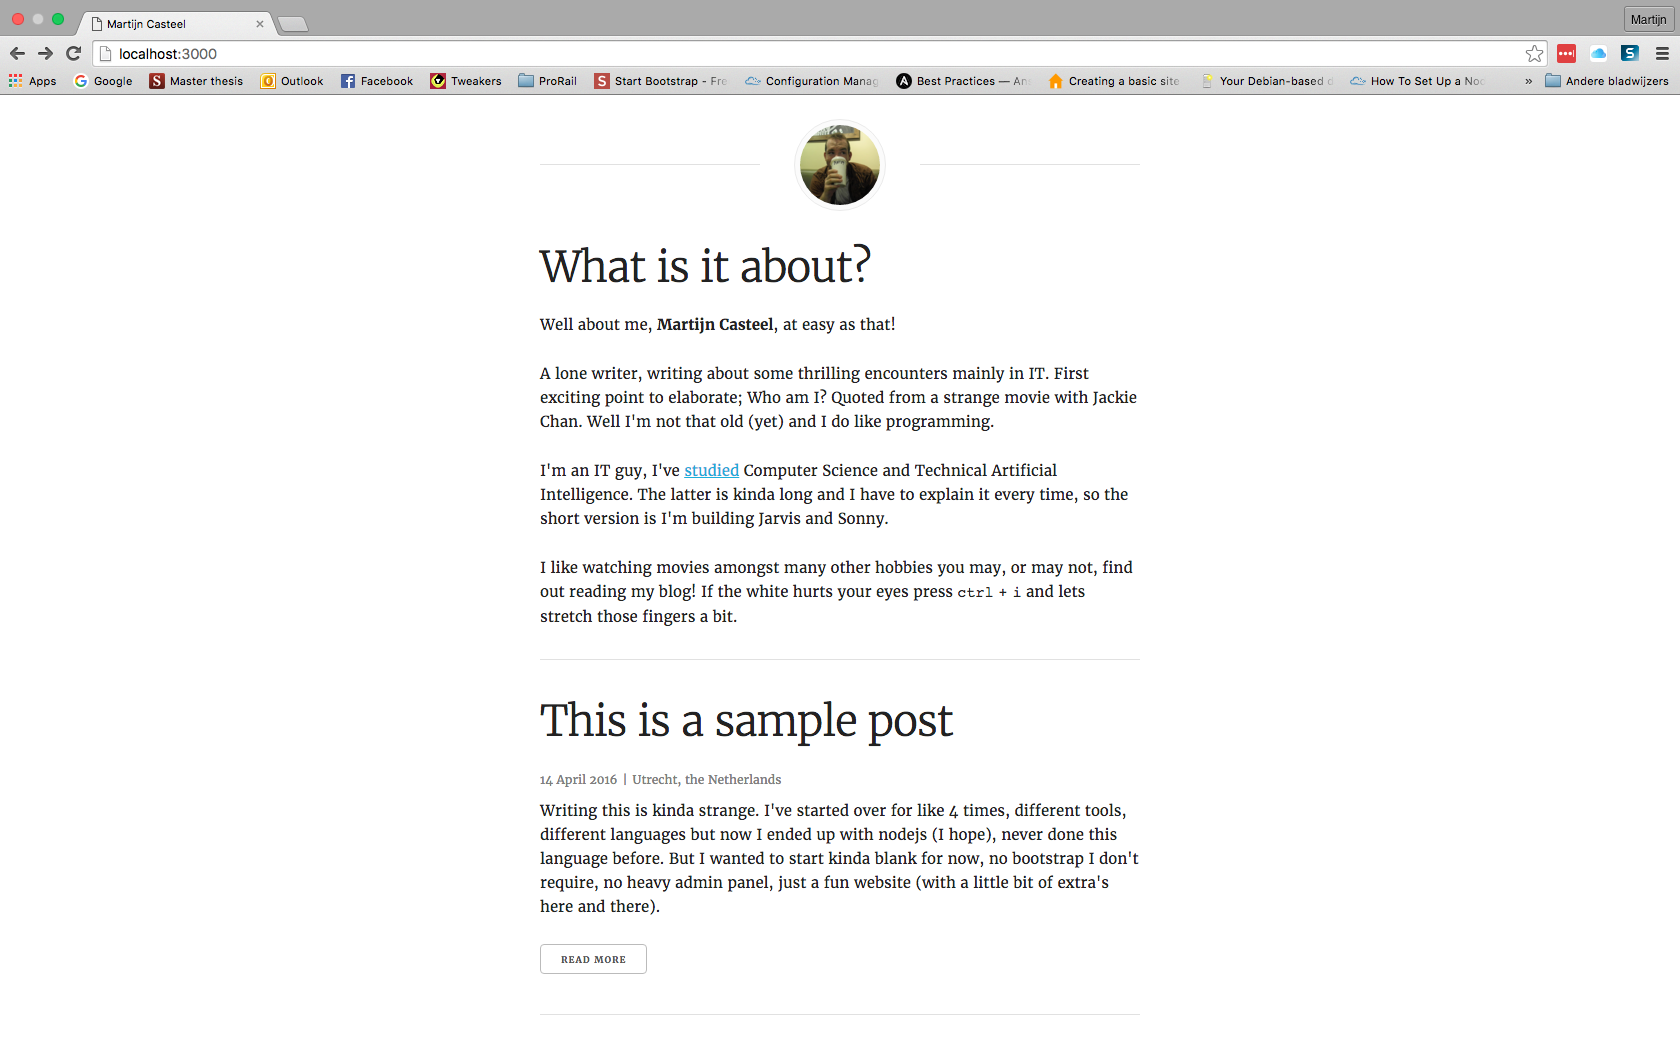
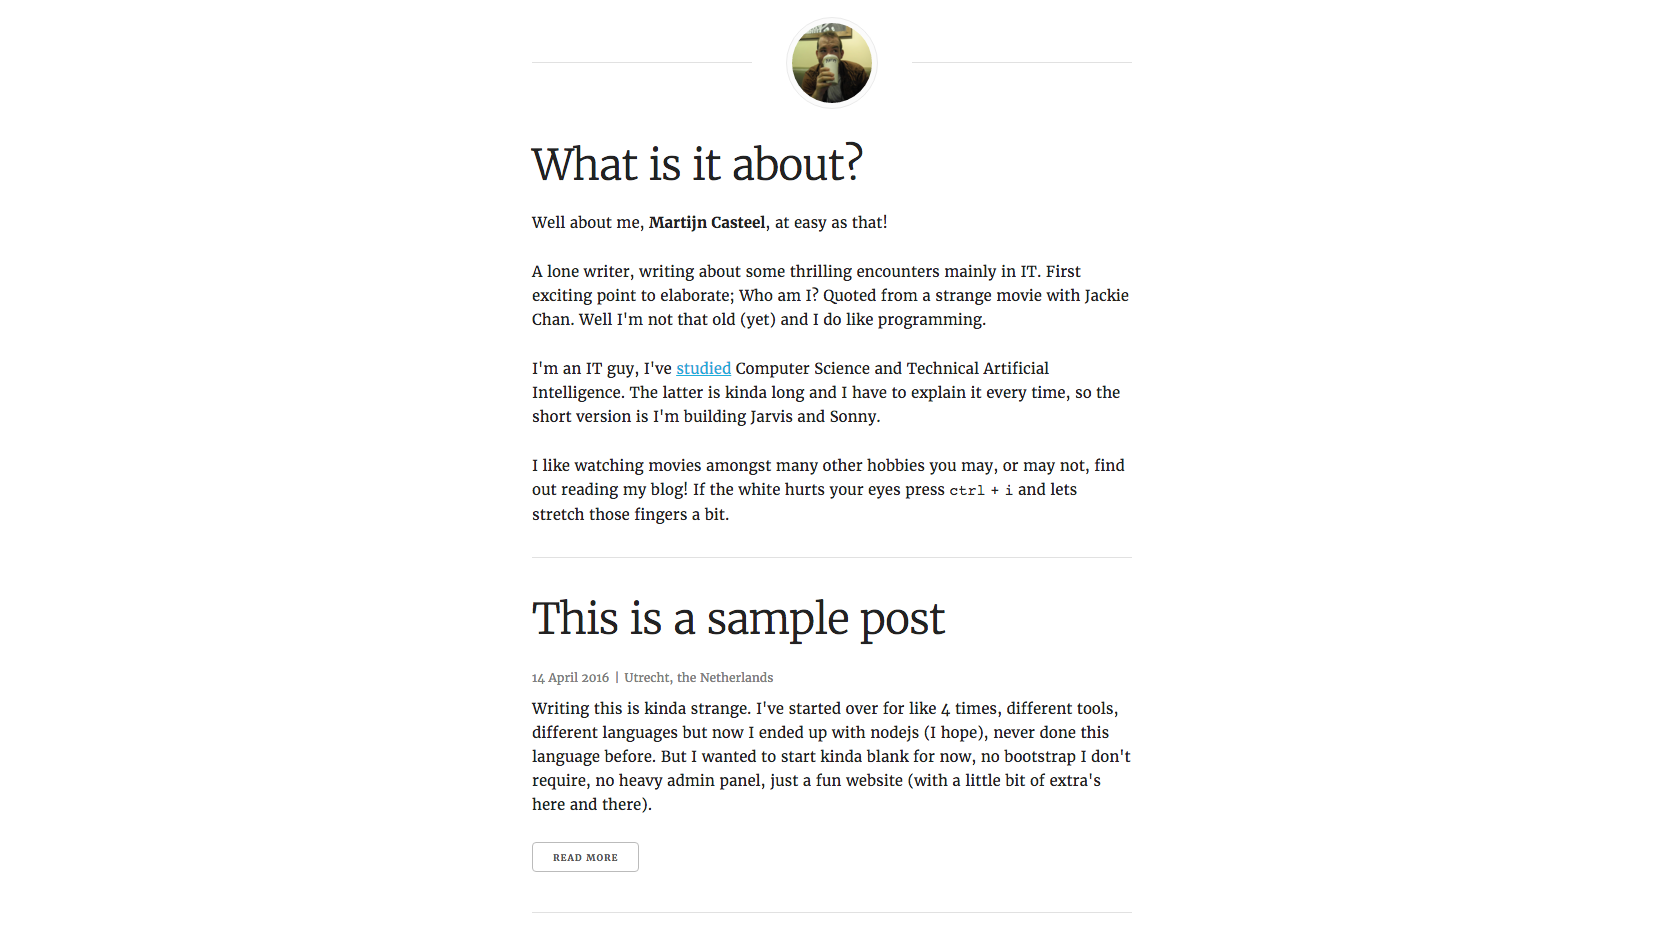
Fixed some styling issues and improved coding in markdown

Changed region(s): [[0.0, 0.0, 1.0, 0.617], [0.307, 0.6479, 0.6755, 0.9255]]

diff --git a/bin/watcher.js b/bin/watcher.js
@@ -9,8 +9,10 @@ function post( markdown ) {
   if(file == null)
     return
 
+  console.log( 'create ' + markdown)
+
   fs.readFile( markdown, 'utf8', function(err, data) {
-    var object = data.split(/\-{3}[\r|\n]/)
+    var object = data.split(/\-{2,3}[\r|\n]/)
 
     if(object[0] === undefined || object[1] === undefined)
       return false;
@@ -38,8 +40,10 @@ post.update = function( markdown ) {
   if(file == null)
     return
 
+  console.log( 'update ' + markdown)
+
   fs.readFile( markdown, 'utf8', function(err, data) {
-    var object = data.split(/\-{3}[\r|\n]/)
+    var object = data.split(/\-{2,3}[\r|\n]/)
 
     if(object[0] === undefined || object[1] === undefined)
       return false;
@@ -50,7 +54,7 @@ post.update = function( markdown ) {
       // update json file
       var list = JSON.parse(process.env.posts)
       var index = list.findIndex(function( item ) {
-        if( item.file == file[1] + '.html' )
+        if( item.file == file[1] )
           return true;
         return false;
       })
@@ -75,10 +79,12 @@ post.delete = function( markdown ) {
   if(file == null)
     return
 
+  console.log( 'delete ' + markdown)
+
   // update json file
   var list = JSON.parse(process.env.posts)
   var index = list.findIndex(function( item ) {
-    if( item.file == file[1] + '.html' )
+    if( item.file == file[1] )
       return true;
     return false;
   })
@@ -86,7 +92,7 @@ post.delete = function( markdown ) {
   if(index < 0)
     return
 
-  fs.unlink('./.cache/' + file + '.html', function( err ) {
+  fs.unlink('./.cache/' + file[1] + '.html', function( err ) {
     list.splice(index, 1)
 
     process.env.posts = JSON.stringify(list)
@@ -101,7 +107,7 @@ post.delete = function( markdown ) {
 /* function for parsing the markdown file */
 post._json = function( file, text ) {
   var obj = {
-    'file': file + '.html'
+    'file': file
   }
 
   text.split(/\r|\n/).forEach(function(item) {

diff --git a/public/stylesheets/style.css b/public/stylesheets/style.css
@@ -10,28 +10,29 @@ h1 {
   font-size: 3.0rem;
   line-height: 1.3;
   letter-spacing: -.1rem;
-  color: #333;
 }
 
 h2 {
   font-size: 2.4rem;
   line-height: 1.35;
   letter-spacing: -.08rem;
-  color: #333;
 }
 
 h3 {
   font-size: 1.8rem;
   line-height: 1.5;
   letter-spacing: -.05rem;
-  color: #444;
 }
 
 h4 {
   font-size: 1.5rem;
   line-height: 1.6;
   letter-spacing: 0;
-  color: #444;
+}
+
+h1, h2 {
+  color: #333;
+  margin-bottom: 1rem;
 }
 
 /* Larger than phablet */
@@ -54,8 +55,10 @@ h4 {
 }
 
 /* custom styles */
-.container {
-  max-width: 600px;
+@media (min-width: 1000px) {
+  .container {
+    max-width: 600px;
+  }
 }
 
 a.profile {
@@ -78,7 +81,7 @@ a.profile:before, a.profile:after {
   display: block;
 
   position: absolute;
-  left: 0px;
+  left: 20px;
   top: 45px;
 
   height: 1px;
@@ -89,7 +92,17 @@ a.profile:before, a.profile:after {
 
 a.profile:after {
   left: auto;
-  right: 0px;
+  right: 20px;
+}
+
+@media (min-width: 400px) {
+  a.profile:before{
+    left: 0px;
+  }
+
+  a.profile:after {
+    right: 0px;
+  }
 }
 
 a.profile img {

diff --git a/routes/index.js b/routes/index.js
@@ -10,7 +10,7 @@ router.get('/', function(req, res, next) {
   var posts = json.reverse().map(function(item){
 
     // include html for each
-    item.content = fs.readFileSync('./.cache/' + item.file, 'utf8');
+    item.content = fs.readFileSync('./.cache/' + item.file + '.html', 'utf8');
   });
 
   res.render('index', {
@@ -18,10 +18,10 @@ router.get('/', function(req, res, next) {
   });
 });
 
-router.get(/\/([a-z\-]+).html/, function(req, res, next) {
+router.get(/\/([a-z\-]+)\/?$/, function(req, res, next) {
 
   var post = JSON.parse(process.env.posts).filter(function(item) {
-    return item.file == req.params[0] + '.html'
+    return item.file == req.params[0]
   });
 
   if(post.length < 1) {
@@ -33,7 +33,7 @@ router.get(/\/([a-z\-]+).html/, function(req, res, next) {
 
   res.render('post', {
     post: post[0],
-    content: fs.readFileSync('./.cache/' + post[0].file, 'utf8')
+    content: fs.readFileSync('./.cache/' + post[0].file + '.html', 'utf8')
   });
 });
 

diff --git a/posts/this-is-a-sample-post.md b/posts/this-is-a-sample-post.md
@@ -4,8 +4,14 @@ additional: Utrecht, the Netherlands
 
 ---
 
-Writing this is kinda strange. I've started over for like 4 times, different tools, different languages but now I ended up with nodejs (I hope), never done this language before. But I wanted to start kinda blank for now, no bootstrap I don't require, no heavy admin panel, just a fun website (with a little bit of extra's here and there).
+Writing this is kinda strange. I've started over for like 4 times, different tools, different languages but now I ended up with nodejs (I hope), never done this language before. But I wanted to start kinda blank for now, no bootstrap I don't require, no heavy admin panel, just a fun website (with a little bit of extra's here and there). [Marked]() is used for parsing the files to html and cache it.
 
-![website design][screenshot]
+```markdown
+  title: This is a sample Post
+  date: 14 April 2016
+  additional: Utrecht, the Netherlands
 
-[screenshot]: this-is-a-sample-post/screenshot-website.png
+  --
+
+  Writing this is kinda strange. I've started [...]
+```

diff --git a/posts/testing-automatic-markdown.md b/posts/testing-automatic-markdown.md
@@ -2,4 +2,4 @@ title: Testing!
 date: 17 April 2016
 additional: Sunny Sunday morning
 ---
-Testing the writing of markdown! Automatic parsing of a new markdown file is now implemented, an awesome small feature soon to be available for everyone to use because I will open-source this website. The project can be found [here](https://github.com/martijncasteel/marked-paper). First some styling issues have to be attended to.
+Testing the writing of markdown! Automatic parsing of a new markdown file is now implemented, an awesome small feature soon to be available for everyone to use because I will open-source this website. The project can be found [here](https://github.com/martijncasteel/marked-paper). First some styling issues have to be attended to, as well as <kbd>ctrl</kbd> + <kbd>i</kbd>.
